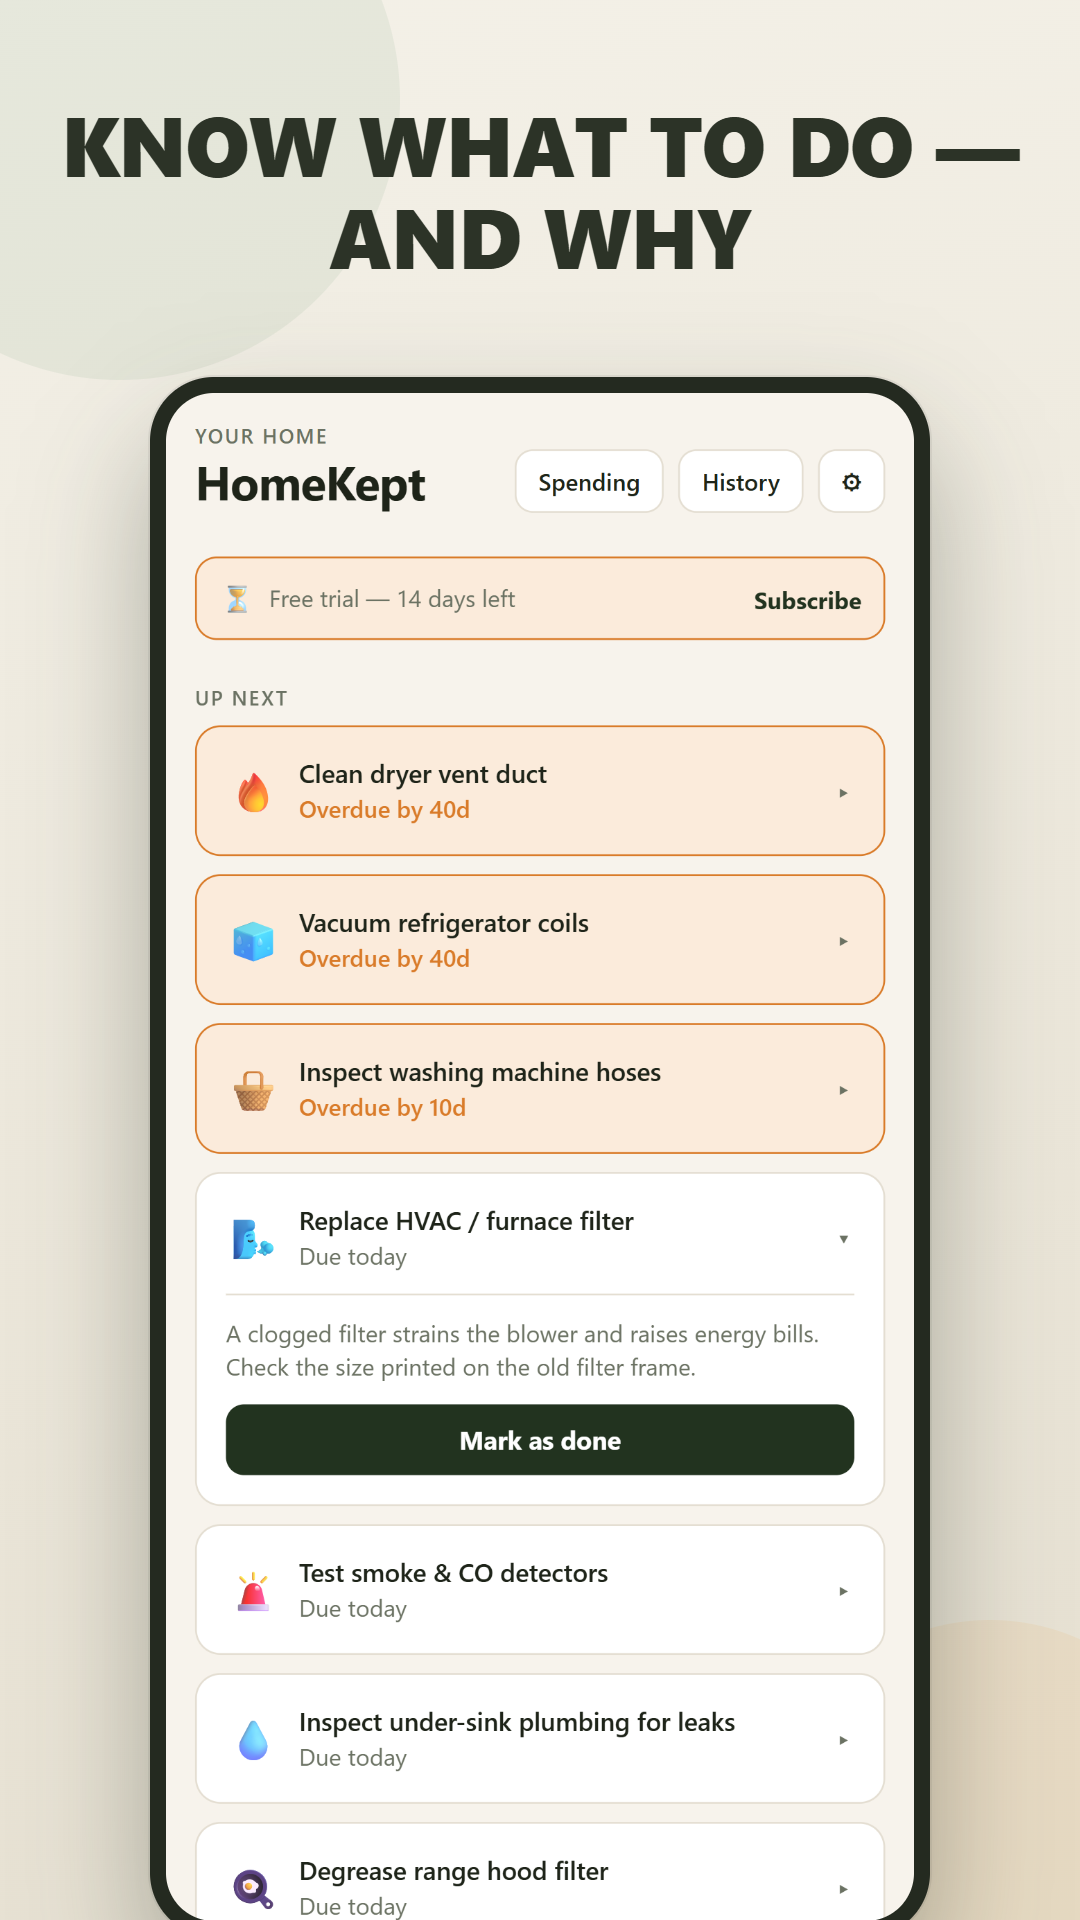
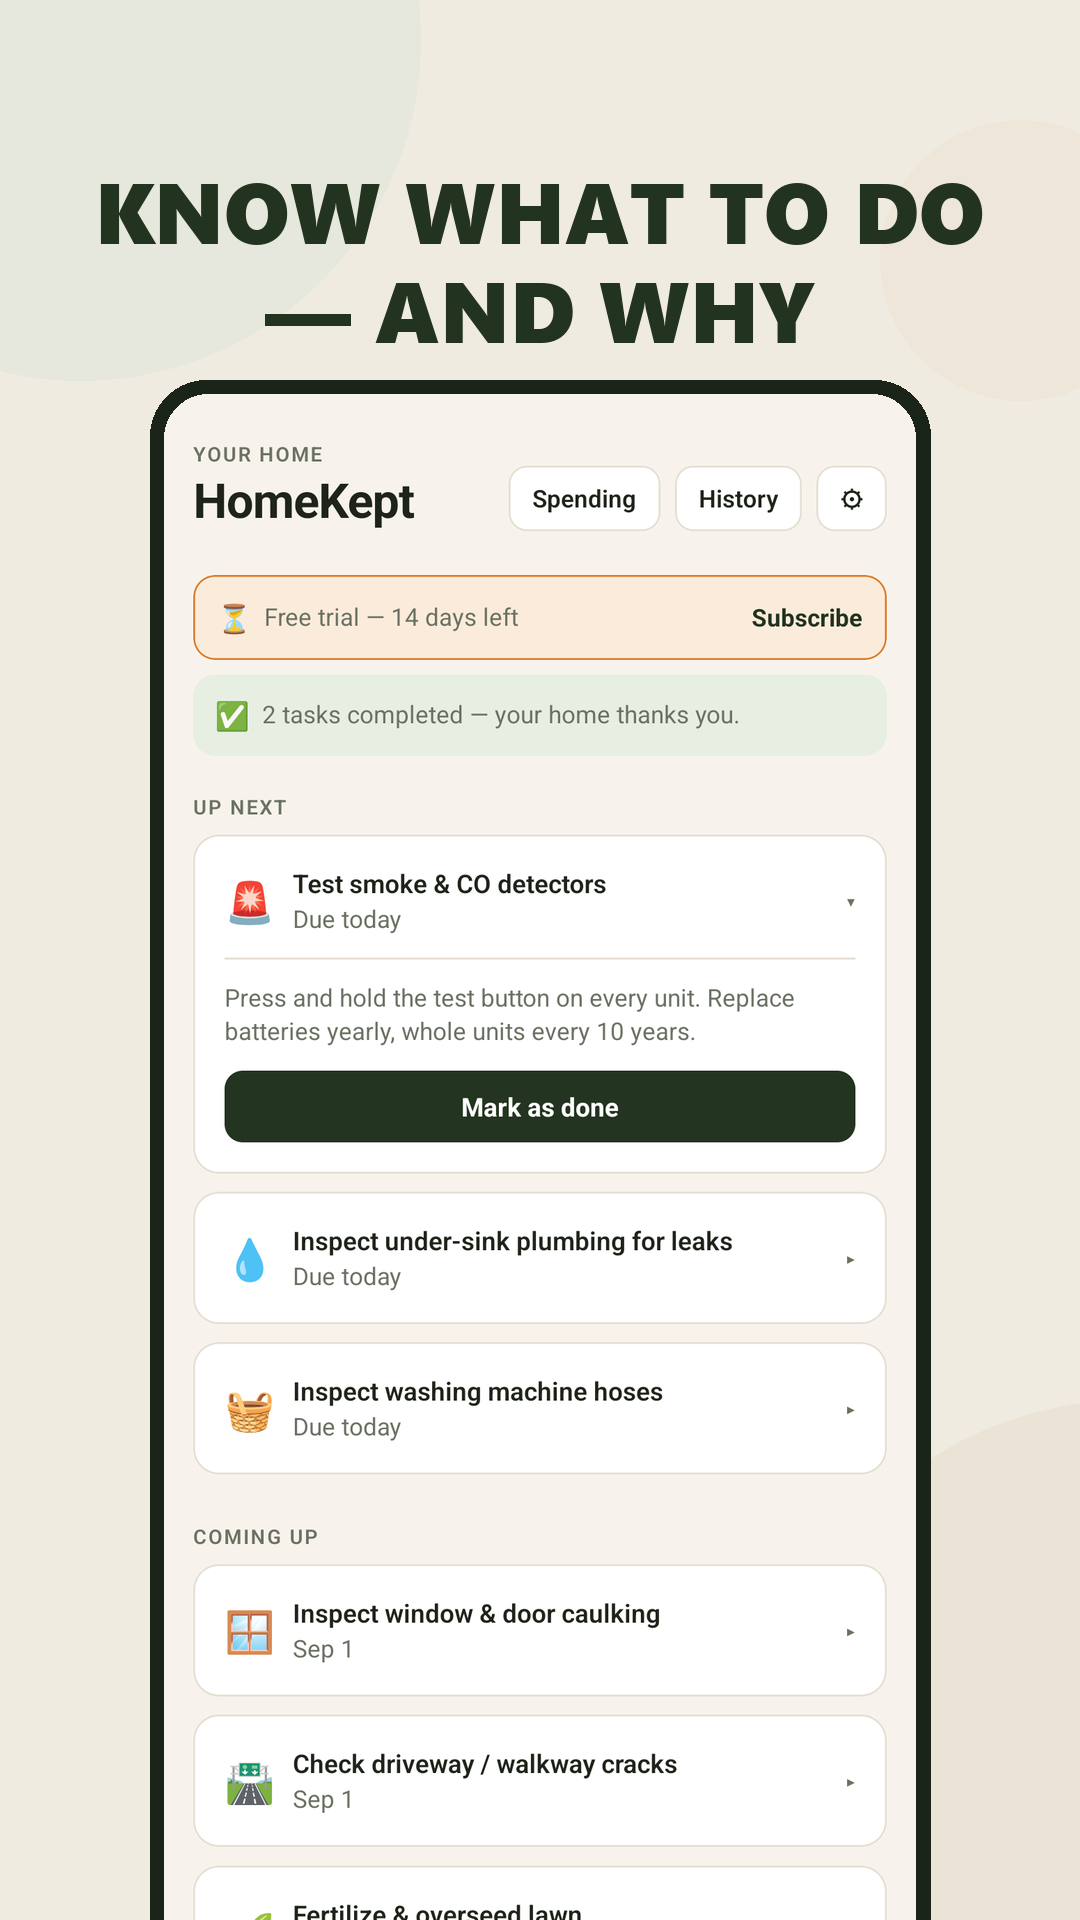
Reshoot Play screenshots for the sign-in gate
The previous set was captured before an account was required, so none of the
images showed the first screen a new user now sees. One of them also showcased
"Overdue by 40d" items, which was the seasonal-schedule bug rather than a
feature.

Recaptured all seven from the real app on the emulator and reframed them in the
existing style (1080x1920, cream backdrop, pine caption, bleeding phone bezel):
schedule, task detail, cost sheet, spending, history, the new sign-in gate, and
the paywall so pricing is visible before install.

Dev-only notices ("simulated billing", "dev mode: accounts stored on this
device") are cropped out, since they do not exist in a production build.

diff --git a/store/play-listing.md b/store/play-listing.md
@@ -40,9 +40,16 @@ cancel anytime.
 
 Five questions now. A calmer, better-kept home all year.
 
-## Screenshot captions (rendered into play-assets/screenshot-1..6.png)
-1. YOUR HOME, ON SCHEDULE · 2. KNOW WHAT TO DO — AND WHY · 3. TRACK WHAT UPKEEP COSTS
-4. SEE SPENDING AT A GLANCE · 5. BUILD A LOGBOOK FOR RESALE DAY · 6. 5 QUESTIONS. DONE IN A MINUTE.
+## Screenshot captions (rendered into play-assets/screenshot-1..7.png)
+Reshot 2026-07-28 from the real app on the emulator, after sign-in became
+mandatory. Upload in this order — the first one is what most people see.
+1. YOUR HOME, ON SCHEDULE
+2. KNOW WHAT TO DO — AND WHY
+3. TRACK WHAT UPKEEP COSTS
+4. SEE SPENDING AT A GLANCE
+5. A LOGBOOK FOR RESALE DAY
+6. START FREE IN SECONDS          (the sign-in gate — new)
+7. 14 DAYS FREE, THEN $24.99/YEAR (the paywall, so pricing is visible up front)
 
 ## Play Console answers
 - **Category:** House & Home (or Lifestyle)
@@ -61,10 +68,11 @@ Five questions now. A calmer, better-kept home all year.
   NO card, so configure the Play subscriptions WITHOUT an extra intro trial.
 
 ## Asset inventory
-- `play-assets/screenshot-1..6.png` — 1080×1920 framed shots (REAL app captures
-  from the web build e2e run) · `feature-graphic.png` 1024×500
+- `play-assets/screenshot-1..7.png` — 1080×1920 framed shots (REAL captures from
+  the Android emulator, 2026-07-28) · `feature-graphic.png` 1024×500
 - `play-assets/play-icon-512.png`, `icon-1024.png` — house + gold checkmark
-- `play-assets/raw/` — unframed captures (incl. paywall.png, auth.png)
+- `play-assets/raw/` — unframed 1080×2400 captures (dashboard, task-expanded,
+  cost-modal, spending, history, auth, paywall, settings)
 
 ## Remaining blockers before submission
 1. Supabase keys in `lib/auth.js`. No longer optional: sign-in is mandatory, and
@@ -79,7 +87,8 @@ Five questions now. A calmer, better-kept home all year.
    the account-deletion URL above.
 6. Closed test (12+ testers / 14 days) for a personal account.
 
-## Screenshots need reshooting
-`play-assets/screenshot-1..6.png` were captured before sign-in became mandatory,
-so none of them shows the first screen a new user now sees. Add a sign-in shot
-(or replace one) before submitting, so the listing matches the install.
+## Screenshot note
+Done. The set now leads with the schedule and includes both the sign-in gate and
+the paywall, so the listing matches what a new user actually gets. The captures
+are from a dev build, so the dev-only "simulated billing" / "dev mode" notices
+were cropped out — reshoot from a production build if you want them frame-exact.
